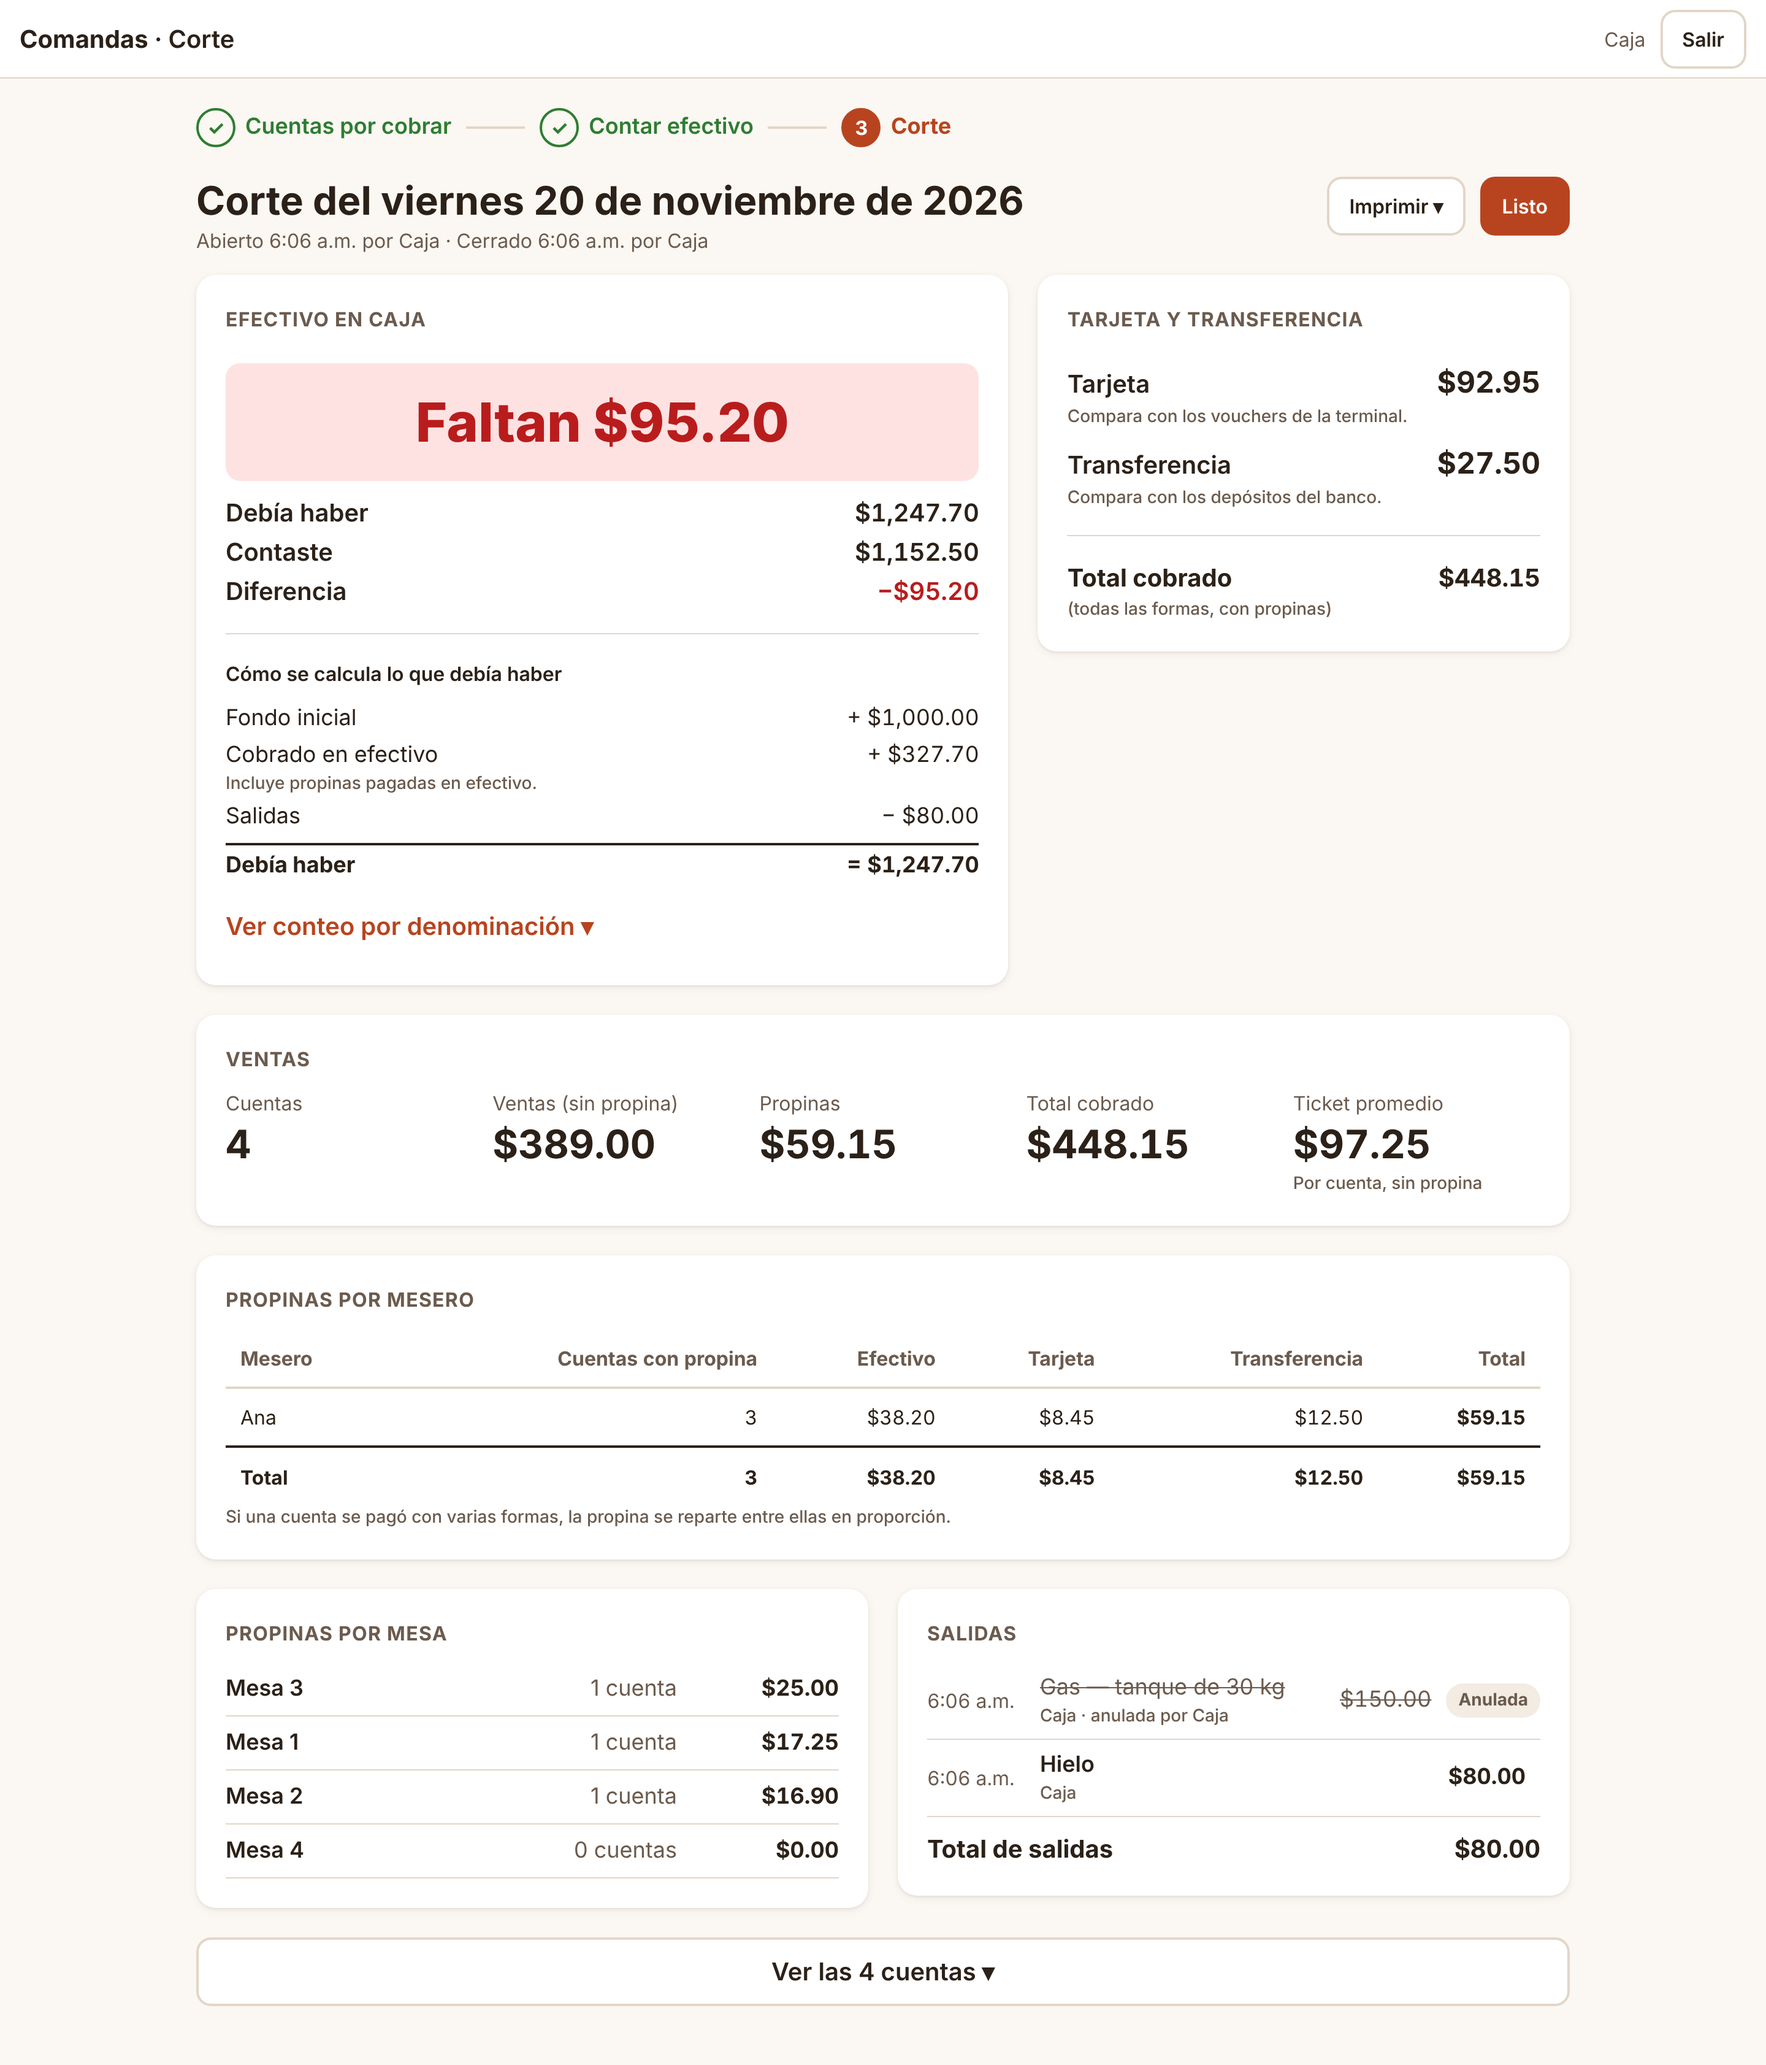
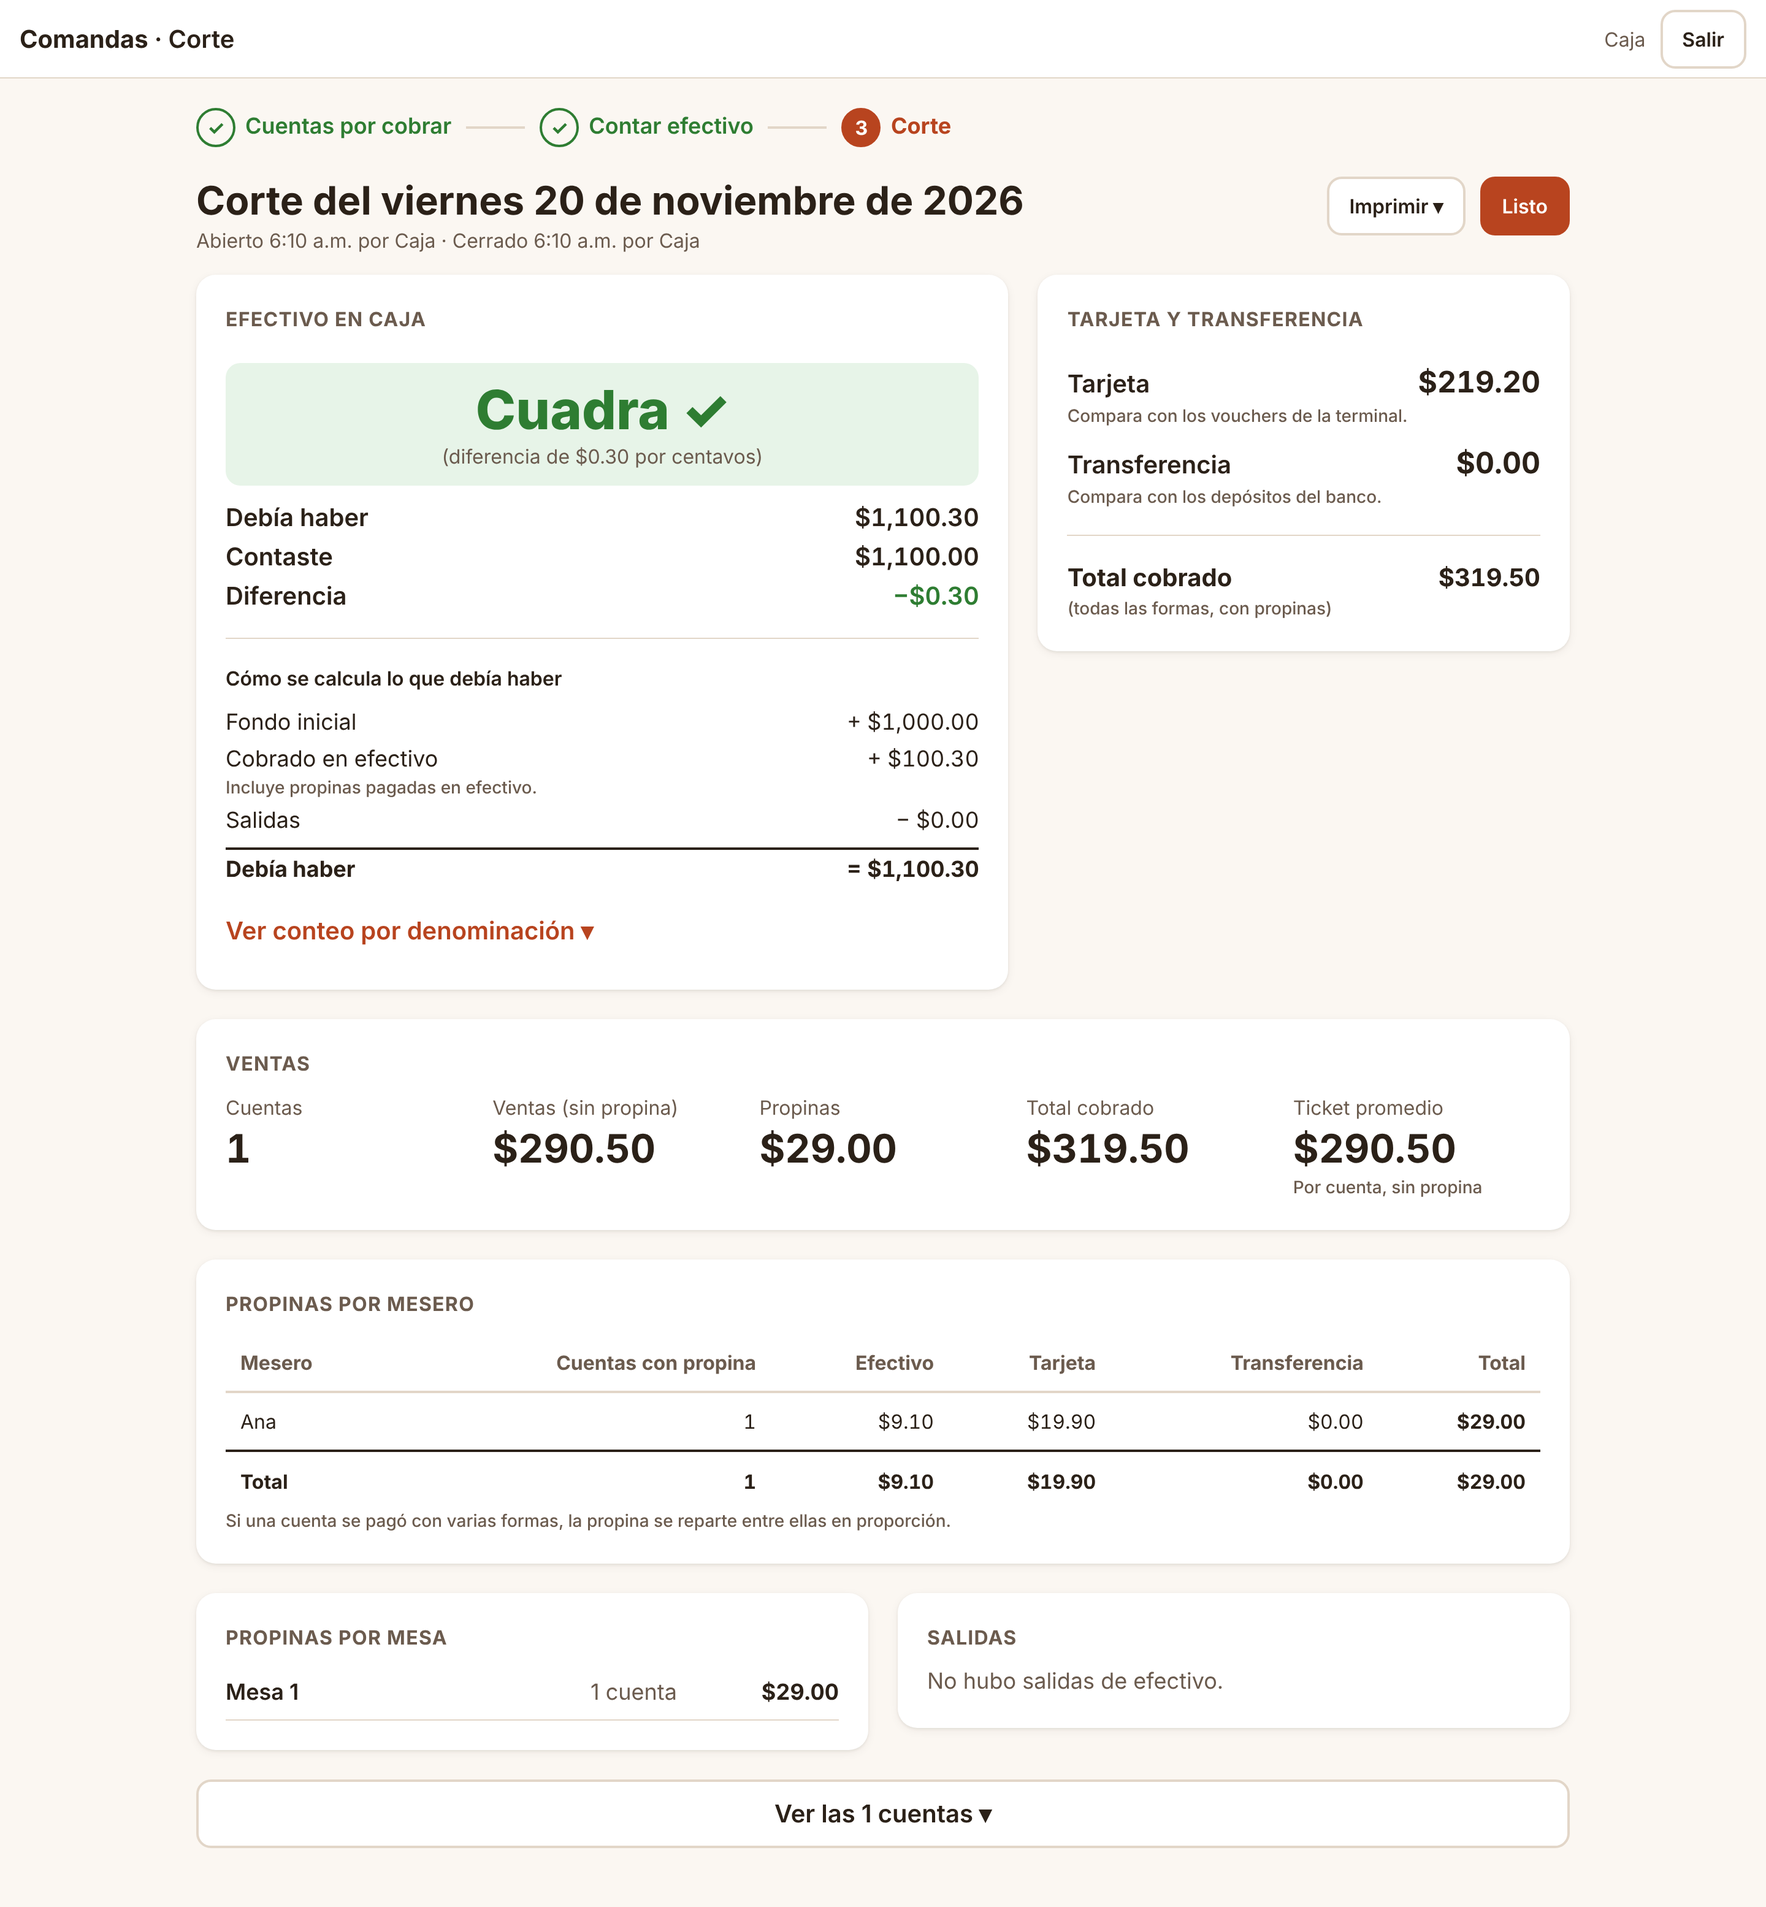
feat(restaurante): propina por porcentaje al peso y tolerancia de centavos en el corte
Claude-Session: https://claude.ai/code/session_01B6HouUrf12FP5Xz5c6scoK

diff --git a/restaurante/src/dia.ts b/restaurante/src/dia.ts
@@ -1,6 +1,6 @@
 // Ayudas del día (jornada): conteo del efectivo guardado en el navegador,
 // el último corte recibido y textos de diferencia. Ver docs/diseno.md, secciones 16–19.
-import { CANTIDAD_MAX, DENOMINACIONES } from './config';
+import { CANTIDAD_MAX, DENOMINACIONES, TOLERANCIA_CUADRE } from './config';
 import { dinero } from './formato';
 import type { Conteo, Corte } from './tipos';
 
@@ -83,15 +83,26 @@ export function olvidarCorteReciente(): void {
 
 export type TipoDiferencia = 'ok' | 'alerta' | 'peligro' | 'neutra';
 
+/** true si la diferencia es menor que la moneda más chica (no se puede ajustar contando). */
+export function cuadra(diferencia: number): boolean {
+  return Math.abs(diferencia) < TOLERANCIA_CUADRE;
+}
+
 export function tipoDiferencia(diferencia: number | null): TipoDiferencia {
   if (diferencia === null) return 'neutra';
-  if (diferencia === 0) return 'ok';
+  if (cuadra(diferencia)) return 'ok';
   return diferencia > 0 ? 'alerta' : 'peligro';
 }
 
 /** "Cuadra ✓", "Sobran $50.00", "Faltan $120.00" o "En curso". */
 export function textoDiferencia(diferencia: number | null): string {
   if (diferencia === null) return 'En curso';
-  if (diferencia === 0) return 'Cuadra ✓';
+  if (cuadra(diferencia)) return 'Cuadra ✓';
   return diferencia > 0 ? `Sobran ${dinero(diferencia)}` : `Faltan ${dinero(-diferencia)}`;
+}
+
+/** "(diferencia de $0.30 por centavos)" si cuadra pero no es exactamente 0; si no, null. */
+export function notaCentavos(diferencia: number | null): string | null {
+  if (diferencia === null || diferencia === 0 || !cuadra(diferencia)) return null;
+  return `(diferencia de ${dinero(Math.abs(diferencia))} por centavos)`;
 }

diff --git a/restaurante/src/pantallas/corte/TicketCorte.tsx b/restaurante/src/pantallas/corte/TicketCorte.tsx
@@ -1,7 +1,7 @@
 // Versión del corte para ticket de 80 mm: solo aparece al imprimir con la opción "Ticket".
 // Una columna, tablas convertidas en renglones; sin propinas por mesa ni lista de cuentas.
 import { DENOMINACIONES } from '../../config';
-import { textoDiferencia } from '../../dia';
+import { notaCentavos, textoDiferencia } from '../../dia';
 import { dinero, dineroConSigno, etiquetaDenominacion, hora } from '../../formato';
 import type { Corte } from '../../tipos';
 import { Renglon } from './Renglon';
@@ -20,6 +20,7 @@ export function TicketCorte({ corte, titulo, horario }: { corte: Corte; titulo: 
       <p className="ticket-impreso__resultado">
         {e.diferencia === null ? 'SIN CONTAR TODAVÍA' : textoDiferencia(e.diferencia).replace(' ✓', '').toUpperCase()}
       </p>
+      {notaCentavos(e.diferencia) && <p>{notaCentavos(e.diferencia)}</p>}
       <Renglon nombre="Debía haber" valor={dinero(e.esperado)} />
       <Renglon nombre="Contaste" valor={e.contado === null ? '—' : dinero(e.contado)} />
       <Renglon nombre="Diferencia" valor={e.diferencia === null ? '—' : dineroConSigno(e.diferencia)} fuerte />

diff --git a/restaurante/src/pantallas/PanelCobro.tsx b/restaurante/src/pantallas/PanelCobro.tsx
@@ -32,7 +32,8 @@ interface Props {
 
 /** Calcula la propina en centavos (null si "Otra" tiene un monto inválido). */
 function calcularPropina(subtotal: number, modo: ModoPropina, otraTexto: string): number | null {
-  if (modo.tipo === 'pct') return Math.round((subtotal * modo.pct) / 100);
+  // Por porcentaje se redondea al peso entero más cercano (docs/diseno.md, sección 24).
+  if (modo.tipo === 'pct') return Math.round((subtotal * modo.pct) / 10000) * 100;
   if (modo.tipo === 'otra') return textoACentavos(otraTexto);
   return 0;
 }
@@ -207,7 +208,7 @@ export function PanelCobro({ orden, alCobrar, recargar, diaAbierto, alAbrirDia, 
           </fieldset>
 
           <div className="cobro__renglon">
-            <span>Propina{modo.tipo === 'pct' ? ` (${modo.pct}%)` : ''}</span>
+            <span>Propina{modo.tipo === 'pct' ? ` (${modo.pct}%, redondeada al peso)` : ''}</span>
             <span className="numeros">{propina === null ? '—' : dinero(propina)}</span>
           </div>
 

diff --git a/restaurante/src/pantallas/corte/TarjetaEfectivo.tsx b/restaurante/src/pantallas/corte/TarjetaEfectivo.tsx
@@ -1,7 +1,7 @@
 // Corte — "Efectivo en caja": resultado, debía haber / contaste / diferencia, desglose y conteo.
 import { useState } from 'react';
 import { DENOMINACIONES } from '../../config';
-import { textoDiferencia, tipoDiferencia } from '../../dia';
+import { notaCentavos, textoDiferencia, tipoDiferencia } from '../../dia';
 import { dinero, dineroConSigno, etiquetaDenominacion } from '../../formato';
 import type { Corte } from '../../tipos';
 
@@ -25,6 +25,7 @@ export function TarjetaEfectivo({ efectivo }: { efectivo: Corte['efectivo'] }) {
           <span className="resultado__texto">
             <span className="solo-pantalla">{textoDiferencia(diferencia)}</span>
             <span className="solo-impresion">{textoDiferencia(diferencia).replace(' ✓', '').toUpperCase()}</span>
+            {notaCentavos(diferencia) && <span className="resultado__nota">{notaCentavos(diferencia)}</span>}
           </span>
         )}
       </div>

diff --git a/restaurante/src/componentes/Diferencia.tsx b/restaurante/src/componentes/Diferencia.tsx
@@ -1,7 +1,14 @@
 // Diferencia de efectivo como insignia: "Cuadra ✓", "Sobran $50.00", "Faltan $120.00", "En curso".
-import { textoDiferencia, tipoDiferencia } from '../dia';
+// Si cuadra por menos de 50¢, debajo va la nota "(diferencia de $0.30 por centavos)".
+import { notaCentavos, textoDiferencia, tipoDiferencia } from '../dia';
 import { Insignia } from './Insignia';
 
 export function Diferencia({ valor }: { valor: number | null }) {
-  return <Insignia tipo={tipoDiferencia(valor)}>{textoDiferencia(valor)}</Insignia>;
+  const nota = notaCentavos(valor);
+  return (
+    <span className="diferencia">
+      <Insignia tipo={tipoDiferencia(valor)}>{textoDiferencia(valor)}</Insignia>
+      {nota && <span className="diferencia__nota">{nota}</span>}
+    </span>
+  );
 }

diff --git a/restaurante/src/estilos.css b/restaurante/src/estilos.css
@@ -2812,3 +2812,27 @@ body:has(.conteo__barra) .toast-zona {
     transform: none;
   }
 }
+
+/* Diferencia que cuadra por centavos (menos de 50¢) */
+.diferencia {
+  display: inline-flex;
+  flex-direction: column;
+  align-items: flex-start;
+  gap: 2px;
+}
+.diferencia__nota {
+  font: var(--t-xs);
+  font-weight: 400;
+  color: var(--c-texto-2);
+  white-space: nowrap;
+}
+.resultado__texto {
+  display: flex;
+  flex-direction: column;
+  align-items: center;
+}
+.resultado__nota {
+  font: var(--t-s);
+  font-weight: 400;
+  color: var(--c-texto-2);
+}

diff --git a/restaurante/src/config.ts b/restaurante/src/config.ts
@@ -69,5 +69,11 @@ export const CANTIDAD_MAX = 10000;
 /** Cada cuánto se actualizan el historial de cortes y el corte parcial (milisegundos). */
 export const RECARGA_CORTES_MS = 30000;
 
+/**
+ * Diferencias de efectivo menores a esto (centavos) se consideran "Cuadra ✓": es menos que la
+ * moneda más chica que se puede contar (50¢). Ver docs/diseno.md, sección 24.
+ */
+export const TOLERANCIA_CUADRE = 50;
+
 /** Rango máximo del reporte de propinas (días, contando ambos extremos). */
 export const RANGO_MAX_DIAS = 93;

diff --git a/restaurante/src/pantallas/corte/CuentasCorte.tsx b/restaurante/src/pantallas/corte/CuentasCorte.tsx
@@ -20,7 +20,7 @@ export function CuentasCorte({ cuentas }: { cuentas: CuentaCorte[] }) {
         aria-expanded={abierta}
         onClick={() => setAbierta((a) => !a)}
       >
-        {abierta ? 'Ocultar cuentas ▴' : `Ver las ${cuentas.length} cuentas ▾`}
+        {abierta ? 'Ocultar cuentas ▴' : cuentas.length === 1 ? "Ver la 1 cuenta ▾" : `Ver las ${cuentas.length} cuentas ▾`}
       </button>
       {abierta && (
         <div className="tarjeta cuentas-corte">

diff --git a/restaurante/docs/diseno.md b/restaurante/docs/diseno.md
@@ -1712,3 +1712,18 @@ Botones en curso (gerundio, deshabilitados): "Abriendo…", "Registrando…",
    navegador (`GET /api/jornadas` es solo del dueño). Se usa `localStorage`;
    conviene agregar `GET /api/jornadas/ultima-cerrada` (caja, dueno) en el
    contrato.
+
+**Decididas por la persona (después de la Entrega 2):**
+
+8. **Propina por porcentaje redondeada al peso.** Los chips 10% / 15% / 20% calculan
+   `Math.round(subtotal × pct / 100)` redondeado al **peso entero más cercano**
+   (ej. 10% de $250.50 = $25.00, no $25.05). El renglón dice "Propina (10%, redondeada al
+   peso)". La propina "Otra" sigue aceptando centavos. (`PanelCobro.tsx`, `calcularPropina`.)
+9. **Tolerancia de cuadre: menos de 50¢ = "Cuadra ✓".** Como la moneda más chica que se
+   puede contar es de 50¢, si |diferencia| < 50¢ el corte, la impresión y el historial muestran
+   "Cuadra ✓" (insignia/caja verde) y, si no es exactamente $0.00, una línea pequeña
+   "(diferencia de $0.30 por centavos)". Con 50¢ o más: "Sobran …" / "Faltan …" como antes.
+   El renglón "Diferencia" sigue mostrando el monto exacto con signo. La regla vive en
+   `src/dia.ts` (`cuadra`, `tipoDiferencia`, `textoDiferencia`, `notaCentavos`) y la constante
+   en `src/config.ts` (`TOLERANCIA_CUADRE = 50`). El servidor no cambia: `diferencia` sigue
+   siendo exacta.
